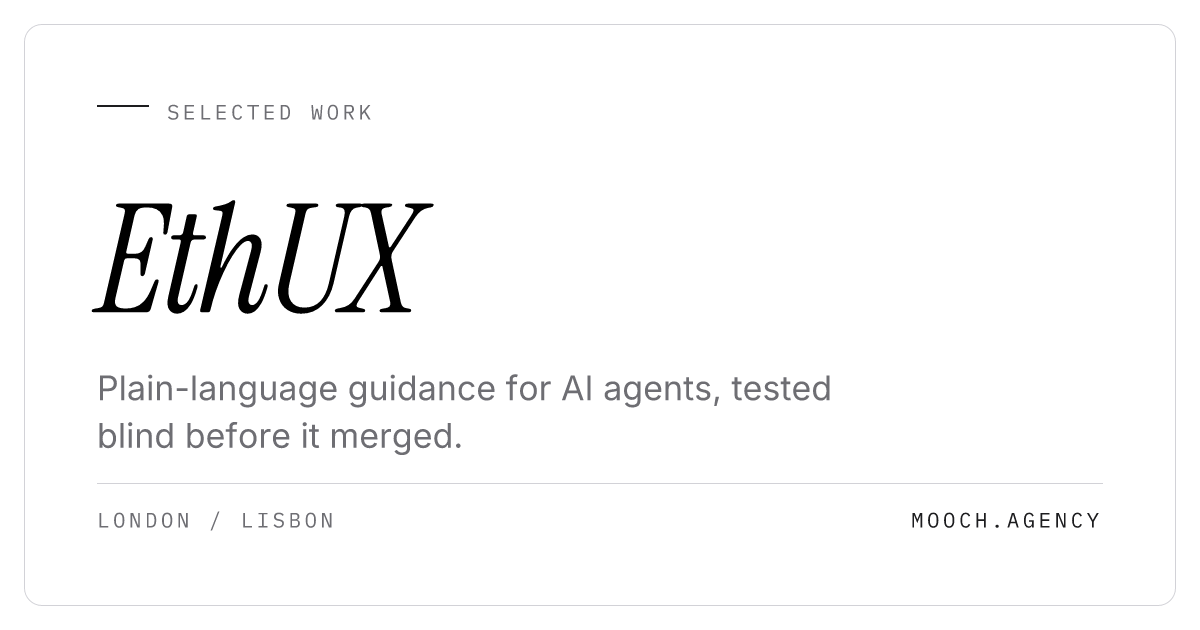
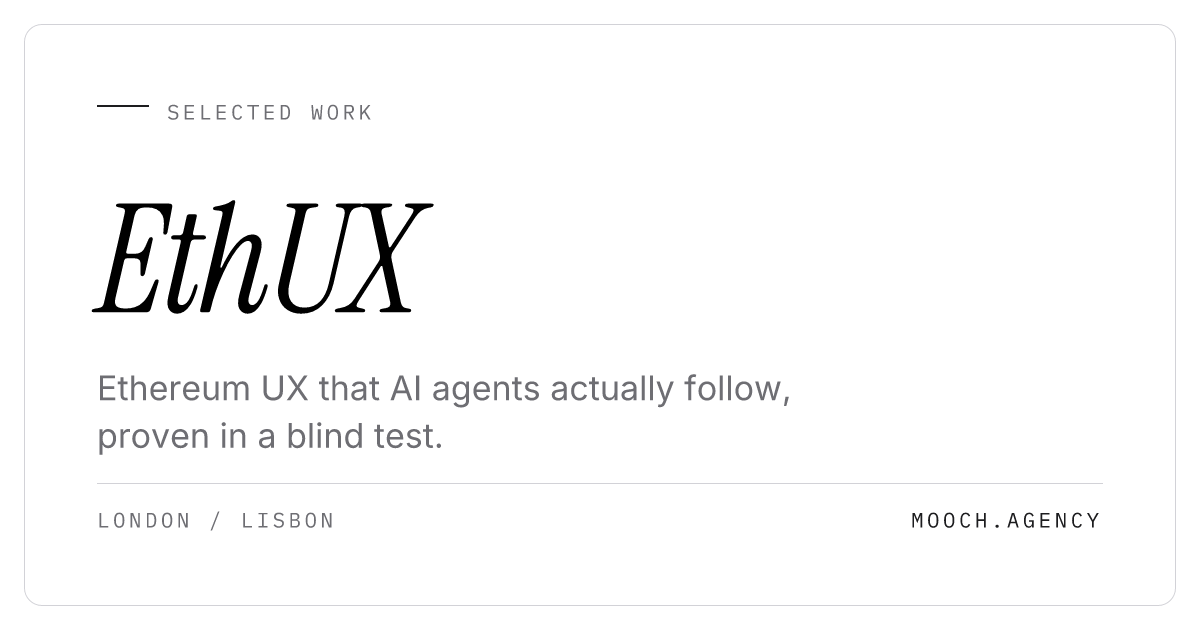
ethux: reframe the case study to sell the work, not log it
Tahi's read of the first draft: accurate but it read like an incident
report, and it undersold who invited us and why the work matters. This
pass keeps every number and the honesty, and changes the emphasis.

- New title, "Ethereum UX that AI agents actually follow", and a
  standfirst naming the invitation from the Ethereum Foundation's Jakub
  Konopka. Meta, share card, llms.txt, homepage row 007 and the Lisbon
  next-card follow it.
- Lead stat is now the plain-word misses (7/9 without guidance, 1/9 with
  ours), the same data as 35 vs 39 but the effect people care about.
- The work is three approach steps (ship safe changes first, rebuild the
  guidance for agents, prove it before it merges) instead of a PR diary.
  Cut the description-count mistake and the unverifiable PR-description
  claim.
- Caveats shrink to one line: small test, overall score held at 39,
  every result shared with Jakub unedited.
- New Related work list (ethereum.org, AXBeat, Octant, zkSync, skills)
  and a closing "compare notes" CTA to hey@, both instrumented
  (ethux_related_click, ethux_contact_click). Loads ui.css for the pill.

Reach is described by mechanism, not a count: there is no public usage
figure for EthUX.design to cite.

Changed region(s): [[0.0925, 0.6032, 0.7092, 0.7238]]

diff --git a/ethux.html b/ethux.html
@@ -3,30 +3,31 @@
 <head>
 <meta charset="UTF-8">
 <meta name="viewport" content="width=device-width, initial-scale=1">
-<title>EthUX.design: Does UX guidance change what AI writes? | Mooch</title>
+<title>EthUX.design: Ethereum UX that AI agents actually follow | Mooch</title>
 <link rel="icon" type="image/svg+xml" href="/favicon.svg">
 <link rel="icon" type="image/x-icon" href="/favicon.ico">
 <link rel="apple-touch-icon" sizes="180x180" href="/apple-touch-icon-180.png">
-<meta name="description" content="Two merged contributions to EthUX.design, and the 27-run blind test that showed plain-language guidance changes the interface copy AI agents write.">
+<meta name="description" content="Invited in by the Ethereum Foundation's Jakub Konopka, we rewrote the plain-language guidance AI agents read before they build, then proved it in a blind test.">
 <meta property="og:type" content="article">
 <meta property="og:url" content="https://mooch.agency/ethux">
 <link rel="canonical" href="https://mooch.agency/ethux">
-<meta property="og:title" content="EthUX.design: Does UX guidance change what AI writes? | Mooch">
-<meta property="og:description" content="Two merged contributions to EthUX.design, and the 27-run blind test that showed plain-language guidance changes the interface copy AI agents write.">
-<meta property="og:image" content="https://mooch.agency/og-ethux.png?v=96a99acf">
+<meta property="og:title" content="EthUX.design: Ethereum UX that AI agents actually follow | Mooch">
+<meta property="og:description" content="Invited in by the Ethereum Foundation's Jakub Konopka, we rewrote the plain-language guidance AI agents read before they build, then proved it in a blind test.">
+<meta property="og:image" content="https://mooch.agency/og-ethux.png?v=a1eeae13">
 <meta property="og:image:width" content="1200">
 <meta property="og:image:height" content="630">
-<meta property="og:image:alt" content="EthUX. Plain-language guidance for AI agents, tested blind before it merged.">
+<meta property="og:image:alt" content="EthUX. Ethereum UX that AI agents actually follow.">
 <meta name="twitter:card" content="summary_large_image">
-<meta name="twitter:title" content="EthUX.design: Does UX guidance change what AI writes? | Mooch">
-<meta name="twitter:description" content="Two merged contributions to EthUX.design, and the 27-run blind test that showed plain-language guidance changes the interface copy AI agents write.">
-<meta name="twitter:image" content="https://mooch.agency/og-ethux.png?v=96a99acf">
-<meta name="twitter:image:alt" content="EthUX. Plain-language guidance for AI agents, tested blind before it merged.">
+<meta name="twitter:title" content="EthUX.design: Ethereum UX that AI agents actually follow | Mooch">
+<meta name="twitter:description" content="Invited in by the Ethereum Foundation's Jakub Konopka, we rewrote the plain-language guidance AI agents read before they build, then proved it in a blind test.">
+<meta name="twitter:image" content="https://mooch.agency/og-ethux.png?v=a1eeae13">
+<meta name="twitter:image:alt" content="EthUX. Ethereum UX that AI agents actually follow.">
 <link rel="preconnect" href="https://fonts.googleapis.com">
 <link rel="preconnect" href="https://fonts.gstatic.com" crossorigin>
 <link href="https://fonts.googleapis.com/css2?family=Instrument+Serif:ital@0;1&display=swap" rel="stylesheet">
 <link rel="stylesheet" href="/tokens.css">
 <link rel="stylesheet" href="/motion.css">
+<link rel="stylesheet" href="/ui.css">
 <style>
   /* Tokens are shared: see tokens.css. Motion (.reveal etc.) lives in motion.css. */
 
@@ -369,6 +370,34 @@
     padding-bottom: 2px;
   }
 
+  /* Page-local: related-work list and closing CTA. One-offs for now; promote
+     to shared CSS if a second case study adopts them (rule of three). */
+  .case-body ul.related { list-style: none; padding: 0; margin: 0 0 8px; border-top: 1px solid var(--hairline); }
+  .case-body ul.related li { margin: 0; border-bottom: 1px solid var(--hairline); }
+  .case-body ul.related a {
+    display: grid;
+    grid-template-columns: 1fr auto;
+    gap: 4px 24px;
+    align-items: center;
+    padding: 18px 0;
+    border-bottom: 0;
+    transition: padding-left 0.2s ease;
+  }
+  .case-body ul.related a:hover { padding-left: 8px; }
+  .case-body ul.related a:focus-visible { outline: 2px solid var(--ink); outline-offset: 2px; }
+  .related-name { font-weight: 600; color: var(--black); grid-column: 1; }
+  .related-line { font-size: 15px; line-height: 1.5; color: var(--muted); grid-column: 1; text-wrap: pretty; }
+  .case-body ul.related .arrow {
+    grid-column: 2;
+    grid-row: 1 / span 2;
+    font-family: var(--serif);
+    font-size: 28px;
+    transition: transform 0.2s ease;
+  }
+  .case-body ul.related a:hover .arrow { transform: translateX(6px); }
+  .cta { margin-top: clamp(64px, 8vw, 112px); }
+  .case-body .cta a.pill { border-bottom: 1px solid var(--black); }
+
   .colophon {
     padding: 56px var(--pad-x) 40px;
     background: var(--black);
@@ -452,14 +481,14 @@
 <section class="case-hero">
   <div class="case-hero-inner">
     <div class="eyebrow reveal d1"><span class="rule"></span> Case Study</div>
-    <h1 class="reveal d2">Plain words for <em>agents</em></h1>
-    <p class="standfirst reveal d3">Two small changes to an open-source Ethereum UX guide, and a blind test showing AI agents write clearer copy when they read it.</p>
+    <h1 class="reveal d2">Ethereum UX that <em>AI agents</em> actually follow</h1>
+    <p class="standfirst reveal d3">Invited in by the Ethereum Foundation's Jakub Konopka, we rewrote the plain-language guidance AI agents read before they build Ethereum apps, then proved it works in a blind test.</p>
     <dl class="case-meta reveal d4">
       <div><dt>Project</dt><dd>EthUX.design</dd></div>
-      <div><dt>Sector</dt><dd>Web3 / Open source</dd></div>
+      <div><dt>Sector</dt><dd>Web3 / AI</dd></div>
       <div><dt>Year</dt><dd>2026</dd></div>
       <div><dt>Services</dt><dd>Content design, AI testing</dd></div>
-      <div><dt>Deliverables</dt><dd>2 merged pull requests, 27-run test</dd></div>
+      <div><dt>Deliverables</dt><dd>2 merged pull requests, blind AI test</dd></div>
       <div><dt>Discipline</dt><dd>UX + AI</dd></div>
     </dl>
   </div>
@@ -469,12 +498,13 @@
   <div class="case-body-inner">
 
     <h2><span class="num">&sect; 01</span>TL;DR</h2>
-    <p class="lead-stat"><strong>With the guidance, AI models scored 39 out of 45. Without it, 35.</strong></p>
-    <p><a href="https://ethux.design" data-track="ethux_source_click" data-link="ethux_site">EthUX.design</a> maps where Ethereum trips people up, drawn from more than 32,000 user reports, and publishes the fixes as skills: instruction files that AI coding agents read before they build. We made two contributions to its plain-language word list, and both were merged. Before merging the second, Jakub, who maintains the project, asked for proof it wouldn't make agents worse. So we tested it: 27 runs across three models, graded blind. The whole gap came down to one habit, reaching for the plain word.</p>
+    <p class="lead-stat"><strong>Without guidance, AI agents missed the plain word in 7 of 9 runs. With ours, 1 of 9.</strong></p>
+    <p><a href="https://ethux.design" data-track="ethux_source_click" data-link="ethux_site">EthUX.design</a> turns more than 32,000 Ethereum user reports into UX guidance that AI coding agents read before they build. Its founder, Jakub Konopka, a designer at the Ethereum Foundation, invited us into the small group shaping it. We rewrote its plain-language word list in two pull requests, and both merged. Before the second, Jakub asked for proof it wouldn't make agents worse. So we built a blind test across three leading AI models, and he merged on the results.</p>
 
     <h2><span class="num">&sect; 02</span>The brief</h2>
-    <p>Language is where Ethereum UX breaks first. A new user meets &ldquo;gas&rdquo;, &ldquo;slippage&rdquo; and &ldquo;approve&rdquo; before they've done anything at all. More and more of that copy is now written by AI agents, and an agent uses whatever words it has been given.</p>
-    <p>EthUX.design's onboarding skill carries a table of crypto terms and the plain words to use instead. In July we shared a draft glossary in the EthUX.design community chat. Jakub said go for it, and the group agreed that pull requests on GitHub were the way to contribute.</p>
+    <p>Language is where Ethereum UX breaks first. A new user meets &ldquo;gas&rdquo;, &ldquo;slippage&rdquo; and &ldquo;approve&rdquo; before they've done anything at all. AI agents now write a growing share of that copy, and an agent uses whatever words it's given. Fix the guidance an agent reads and you fix every screen it builds.</p>
+    <p>That's the idea behind EthUX.design: a map of 38 Ethereum UX problems, drawn from those 32,000 reports, published as skills, the instruction files agents read before they write code. It's built to put UX best practice in front of every team building at the edge of Ethereum and AI, and in front of the agents doing the building.</p>
+    <p>We'd worked with Jakub before, <a href="/ethereum" data-track="ethux_related_click" data-to="ethereum">rewriting the core pages of ethereum.org</a> for the Ethereum Foundation. This time the brief was a plain-language standard for agents: turn hard jargon into everyday words, bring the reading level down, and spell out what to avoid.</p>
     <div class="user-need">
       <span class="qual">As a</span> builder using an AI agent on an Ethereum app<br>
       <span class="qual">I want</span> it to write copy a first-time user understands<br>
@@ -483,33 +513,32 @@
 
     <h2><span class="num">&sect; 03</span>The work</h2>
 
-    <h3>First pull request: the easy eight</h3>
-    <p>Our draft renamed a lot. Sasha, a UX researcher in the group, pushed back on several of the renames. Her point on &ldquo;token&rdquo; stuck: swapping it for &ldquo;coin&rdquo; everywhere is wrong, because NFTs are tokens too, and the people in her research had never struggled with the word. She also argued that any rename has to be weighed against everyone who already knows the old word, and that the list should say how its terms were chosen.</p>
-    <p>So we held back everything contested (token, Gwei and Wei, ERC-20, bridge) and sent only the eight least contested. Allowance becomes &ldquo;Spending limit&rdquo;, Tx hash becomes &ldquo;Transaction ID&rdquo;, Testnet becomes &ldquo;Practice network&rdquo;, and so on. One file, ten added lines. Jakub merged it four days later, on 8 August.</p>
+    <h3>1. Ship the safe changes first</h3>
+    <p>Our first glossary renamed a lot, on purpose, to invite challenge. Sasha, a UX researcher in the group, gave it. In her research, people didn't struggle with &ldquo;token&rdquo;, and NFTs are tokens too, so a blanket swap to &ldquo;coin&rdquo; would be wrong. Every rename, she argued, has to be worth the cost to everyone who already knows the old word.</p>
+    <p>So our first pull request held back everything contested and shipped the eight safest renames. Allowance becomes &ldquo;Spending limit&rdquo;, Tx hash becomes &ldquo;Transaction ID&rdquo;, Testnet becomes &ldquo;Practice network&rdquo;. Jakub merged it in four days.</p>
 
-    <h3>Second pull request: the contested terms</h3>
-    <p>The second pull request came back for the words we'd left out. A two-column table can only tell an agent to swap a word, and &ldquo;token&rdquo; needs a different instruction: keep the word and explain it. So we grouped the table by the action to take. Replace the term by default, keep it and explain it in place, or leave it out of the beginner view entirely.</p>
-    <p>Jakub's review asked for three changes. Drop Gwei and Wei, because a beginner never has to act on a fee unit. Drop ERC-20, because our own note said to hide it from everyday users, which made it a row that, in his words, &ldquo;argues against its own existence&rdquo;. And keep &ldquo;smart contract&rdquo; mapped to &ldquo;App&rdquo;, naming the app instead wherever a screen needs both. He was right on all three, and we took them.</p>
-    <p>He also caught a mistake. Our description said one table was unchanged when we had cut it from 20 rows to 17. We rewrote it with the counts row by row and the reason behind each change, which is now how we write every pull request description.</p>
+    <h3>2. Rebuild the guidance for agents</h3>
+    <p>Then we went back for the hard words. A two-column swap table can only tell an agent to replace a term, and &ldquo;token&rdquo; needs a different instruction: keep it and explain it. So we rebuilt the table around the action an agent should take. Replace the term, keep it and explain it, or leave it out of the beginner view.</p>
+    <p>Jakub's review sharpened it: drop the fee units Gwei and Wei, which a beginner never acts on, drop ERC-20, and keep &ldquo;smart contract&rdquo; mapped to &ldquo;App&rdquo;. We took all three.</p>
     <blockquote class="client-quote">
       Direction is right and the split is worth keeping.
-      <cite>Jakub, EthUX.design, <a href="https://github.com/konopkja/ethux-design/pull/10#pullrequestreview-5023537531" data-track="ethux_source_click" data-link="pr10_review">review of pull request #10</a></cite>
+      <cite>Jakub Konopka, EthUX.design, <a href="https://github.com/konopkja/ethux-design/pull/10#pullrequestreview-5023537531" data-track="ethux_source_click" data-link="pr10_review">review of pull request #10</a></cite>
     </blockquote>
 
-    <h3>The test</h3>
-    <p>Then Jakub asked for regression tests before merging: checks that the change wouldn't make any model write worse copy. He had tested the skill himself by running scenarios with and without it, so we used his method on current models.</p>
+    <h3>3. Prove it before it merges</h3>
+    <p>Jakub set the bar: no merge without regression tests showing the change wouldn't make any model write worse copy. Changes to agent guidance usually ship on instinct. This one had to earn its merge, so we built on Jakub's own with-and-without method, using current models:</p>
     <ul>
-      <li>Three scenarios a first-time user meets: letting a swap app spend their USDC and later taking that away, a swap that fails because the price moved, and moving funds to a cheaper network.</li>
+      <li>Three moments a first-time user meets: letting a swap app spend their USDC and later taking that away, a swap that fails because the price moved, and moving funds to a cheaper network.</li>
       <li>Three models: Claude Haiku 4.5, Claude Opus 5.5 and OpenAI's GPT-5.3 Codex.</li>
       <li>Three setups: no guidance, the guidance as it stood, and the guidance with our change. That makes 27 runs.</li>
-      <li>A separate model graded every output against five yes-or-no checks, without knowing which model or setup wrote it.</li>
+      <li>A separate model graded every output against five yes-or-no checks, blind to which model or setup wrote it.</li>
     </ul>
 
     <h2><span class="num">&sect; 04</span>What we found</h2>
-    <p class="lead-stat"><strong>The gap came down to one habit: using the plain word.</strong></p>
-    <p>With the guidance, the models scored 39 out of 45, both before and after our change. Without it, they scored 35. Between no guidance and the guidance as it stood, all four of those points came from a single check: whether the copy used the plain term, like &ldquo;Remove permission&rdquo; for revoke or &ldquo;Price change tolerance&rdquo; for slippage. With no guidance, 7 of 9 runs missed it. With the old table, 3 of 9. With ours, 1 of 9.</p>
+    <p class="lead-stat"><strong>The plain word won. Misses fell from 7 in 9 runs to 1.</strong></p>
+    <p>Guidance made the difference on one check above all: whether the copy used the plain term, like &ldquo;Remove permission&rdquo; for revoke or &ldquo;Price change tolerance&rdquo; for slippage. With no guidance, 7 of 9 runs missed it. With the old table, 3 of 9. With ours, 1 of 9. Across all five checks, the models scored 39 out of 45 with guidance and 35 without.</p>
     <table class="results">
-      <caption>Points out of 15 per model: three scenarios, five checks each. One run per combination.</caption>
+      <caption>Points out of 15 per model: three moments, five checks each. One run per combination.</caption>
       <thead>
         <tr><th scope="col">Model</th><th scope="col">No guidance</th><th scope="col">Before our change</th><th scope="col">With our change</th></tr>
       </thead>
@@ -520,25 +549,38 @@
       </tbody>
       <tfoot>
         <tr><td>All models, out of 45</td><td>35</td><td>39</td><td>39</td></tr>
+        <tr><td>Runs that missed the plain word</td><td>7/9</td><td>3/9</td><td>1/9</td></tr>
       </tfoot>
     </table>
-    <p>It wasn't clean. On the pass rule we'd agreed, our change failed by a point: Opus scored 15 before it and 14 after. We put that point down to the grader: it passed a sentence in one output and failed the identical sentence in the other. Haiku also did better with no guidance on the network scenario than with either table, and with ours it showed users the word &ldquo;calldata&rdquo;. With one run per combination, a point either way can be chance.</p>
-    <p>We sent Jakub the results as they stood, flaws included, with no reruns. He merged on 2 October.</p>
+    <p>It's a small test, one run per combination, so a point either way can be chance, and the overall score held at 39 rather than rising. We shared every result with Jakub as it stood, with no reruns. He merged on 2 October.</p>
 
     <h2><span class="num">&sect; 05</span>Impact</h2>
     <div class="stat-row">
-      <div class="stat"><span class="n">39<em>/45</em></span><span class="label">With the guidance</span></div>
-      <div class="stat"><span class="n">35<em>/45</em></span><span class="label">Without it</span></div>
+      <div class="stat"><span class="n">1<em>/9</em></span><span class="label">Plain-word misses, down from 7/9</span></div>
       <div class="stat"><span class="n">2<em>/2</em></span><span class="label">Pull requests merged</span></div>
+      <div class="stat"><span class="n">27</span><span class="label">Blind-graded runs</span></div>
     </div>
-    <p>Both contributions are now in the guidance EthUX.design serves to every agent that reads it. The method matters as much as the words: a small, blind, repeatable test that tells a maintainer whether a change to agent guidance helps or hurts before it merges.</p>
+    <p>Both contributions now ship in the guidance EthUX.design serves to every agent that reads it. And the method travels: a small, blind, repeatable test that tells a maintainer whether a change to agent guidance helps or hurts, before it merges.</p>
     <p>Thanks to Jakub, whose review made the second pull request better and whose request for proof produced the test, and to Sasha, whose research-backed pushback decided what went into the first.</p>
-    <p>Next, we're measuring the other side: how easily agents can read Ethereum's networks in the first place. <a href="/axbeat" data-track="ethux_axbeat_click">AXBeat</a> ranks the biggest Layer 2s on it.</p>
     <p class="source-links">
       <a href="https://github.com/konopkja/ethux-design/pull/9" data-track="ethux_source_click" data-link="pr9">Pull request #9 &rarr;</a>
       <a href="https://github.com/konopkja/ethux-design/pull/10" data-track="ethux_source_click" data-link="pr10">Pull request #10 &rarr;</a>
-      <a href="/axbeat" data-track="ethux_axbeat_click">See AXBeat &rarr;</a>
     </p>
+
+    <h2><span class="num">&sect; 06</span>Related work</h2>
+    <ul class="related">
+      <li><a href="/ethereum" data-track="ethux_related_click" data-to="ethereum"><span class="related-name">Ethereum Foundation</span><span class="related-line">Plain-English rewrites of ethereum.org's core pages, with Jakub.</span><span class="arrow" aria-hidden="true">&rarr;</span></a></li>
+      <li><a href="/axbeat" data-track="ethux_axbeat_click"><span class="related-name">AXBeat</span><span class="related-line">The top 22 Layer 2s, ranked on how well AI agents can read their website and docs.</span><span class="arrow" aria-hidden="true">&rarr;</span></a></li>
+      <li><a href="/octant" data-track="ethux_related_click" data-to="octant"><span class="related-name">Octant</span><span class="related-line">UX research that made Ethereum public-goods funding make sense.</span><span class="arrow" aria-hidden="true">&rarr;</span></a></li>
+      <li><a href="/zksync" data-track="ethux_related_click" data-to="zksync"><span class="related-name">zkSync</span><span class="related-line">UX research on developer experience and bridging for an Ethereum Layer 2.</span><span class="arrow" aria-hidden="true">&rarr;</span></a></li>
+      <li><a href="https://github.com/mooch-agency/skills" data-track="ethux_related_click" data-to="skills"><span class="related-name">Open-source skills</span><span class="related-line">Say Less, /deslop and more: our own skills for AI agents, free to install.</span><span class="arrow" aria-hidden="true">&rarr;</span></a></li>
+    </ul>
+
+    <div class="cta">
+      <p class="lead-stat"><strong>Working on agent experience? Let's compare notes.</strong></p>
+      <p>If you're building for, or with, AI agents on Ethereum or anywhere else, we'd like to hear what you're seeing.</p>
+      <a class="pill" href="mailto:hey@mooch.agency?subject=Agent%20experience" data-track="ethux_contact_click">hey@mooch.agency <span class="arrow" aria-hidden="true">&rarr;</span></a>
+    </div>
 
   </div>
 </article>
@@ -598,7 +640,10 @@
   //   next_case_click     the "next case study" card (shared across case studies)
   //   ethux_source_click  links out to the evidence on GitHub / ethux.design;
   //                       data.link says which (pr9, pr10, pr10_review, ethux_site)
-  //   ethux_axbeat_click  the step on to AXBeat; data.placement is "body" or "links"
+  //   ethux_axbeat_click  the step on to AXBeat (related-work list)
+  //   ethux_related_click other Mooch work from this page; data.to names it
+  //                       (ethereum, octant, zksync, skills)
+  //   ethux_contact_click the closing "compare notes" mailto to hey@
   function track(name, data) {
     try { if (window.va) window.va("event", { name: name, data: data || {} }); } catch (e) {}
   }
@@ -611,10 +656,12 @@
     document.querySelectorAll("[data-track]").forEach(function (a) {
       a.addEventListener("click", function () {
         var name = a.getAttribute("data-track");
-        if (name === "ethux_axbeat_click") {
-          track(name, { placement: a.closest(".source-links") ? "links" : "body" });
-        } else {
+        if (name === "ethux_source_click") {
           track(name, { link: a.getAttribute("data-link") });
+        } else if (name === "ethux_related_click") {
+          track(name, { to: a.getAttribute("data-to"), placement: a.closest(".related") ? "list" : "body" });
+        } else {
+          track(name);
         }
       });
     });

diff --git a/lisbon-restaurant-group.html b/lisbon-restaurant-group.html
@@ -467,8 +467,8 @@
     <span class="small">Continue &nbsp;/&nbsp; Next case study</span>
     <a class="next-card" href="/ethux.html">
       <div>
-        <h3>EthUX.design <em>&middot;</em> Plain words for agents</h3>
-        <p>Two merged contributions to an open-source Ethereum UX guide, and the blind test showing AI agents write clearer copy with it.</p>
+        <h3>EthUX.design <em>&middot;</em> Ethereum UX that AI agents actually follow</h3>
+        <p>Invited in by the Ethereum Foundation's Jakub Konopka, we rewrote the guidance AI agents read before they build, then proved it in a blind test.</p>
       </div>
       <span class="arrow">&rarr;</span>
     </a>

diff --git a/index.html b/index.html
@@ -878,7 +878,7 @@
         <span class="idx">007</span>
         <span>
           <span class="client">EthUX.design</span>
-          <span class="tldr">Plain-language guidance for AI agents, tested blind before it merged.</span>
+          <span class="tldr">Ethereum UX guidance that AI agents actually follow, proven in a blind test.</span>
         </span>
         <span class="year">2026</span>
       </a>
